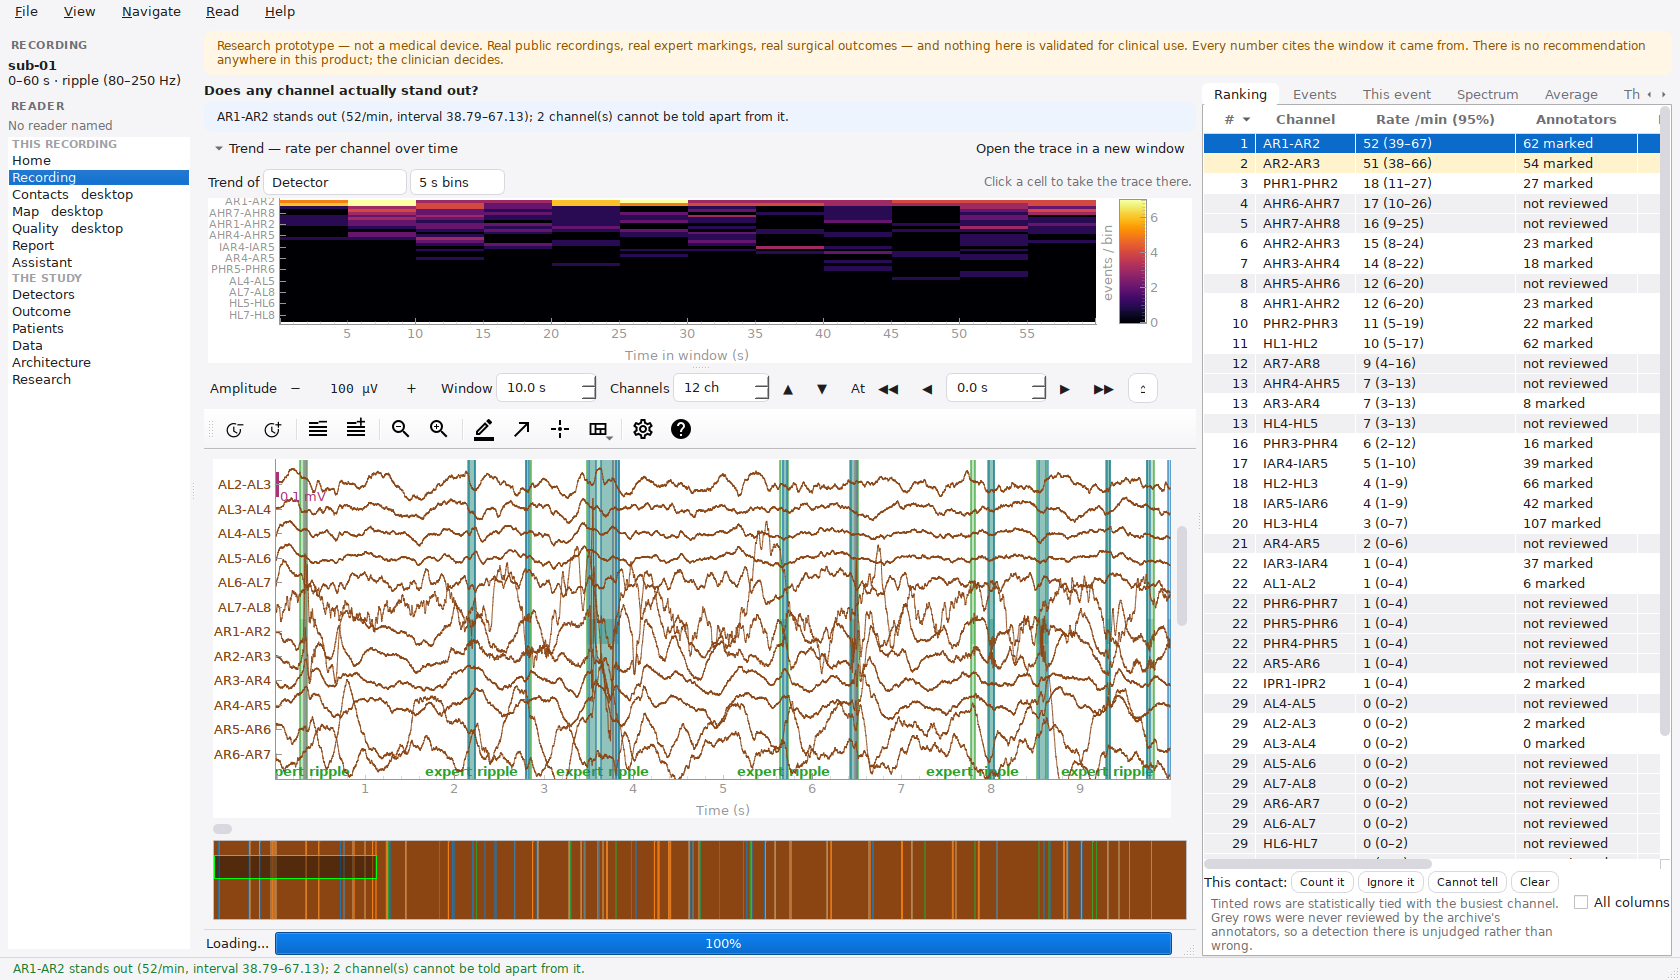
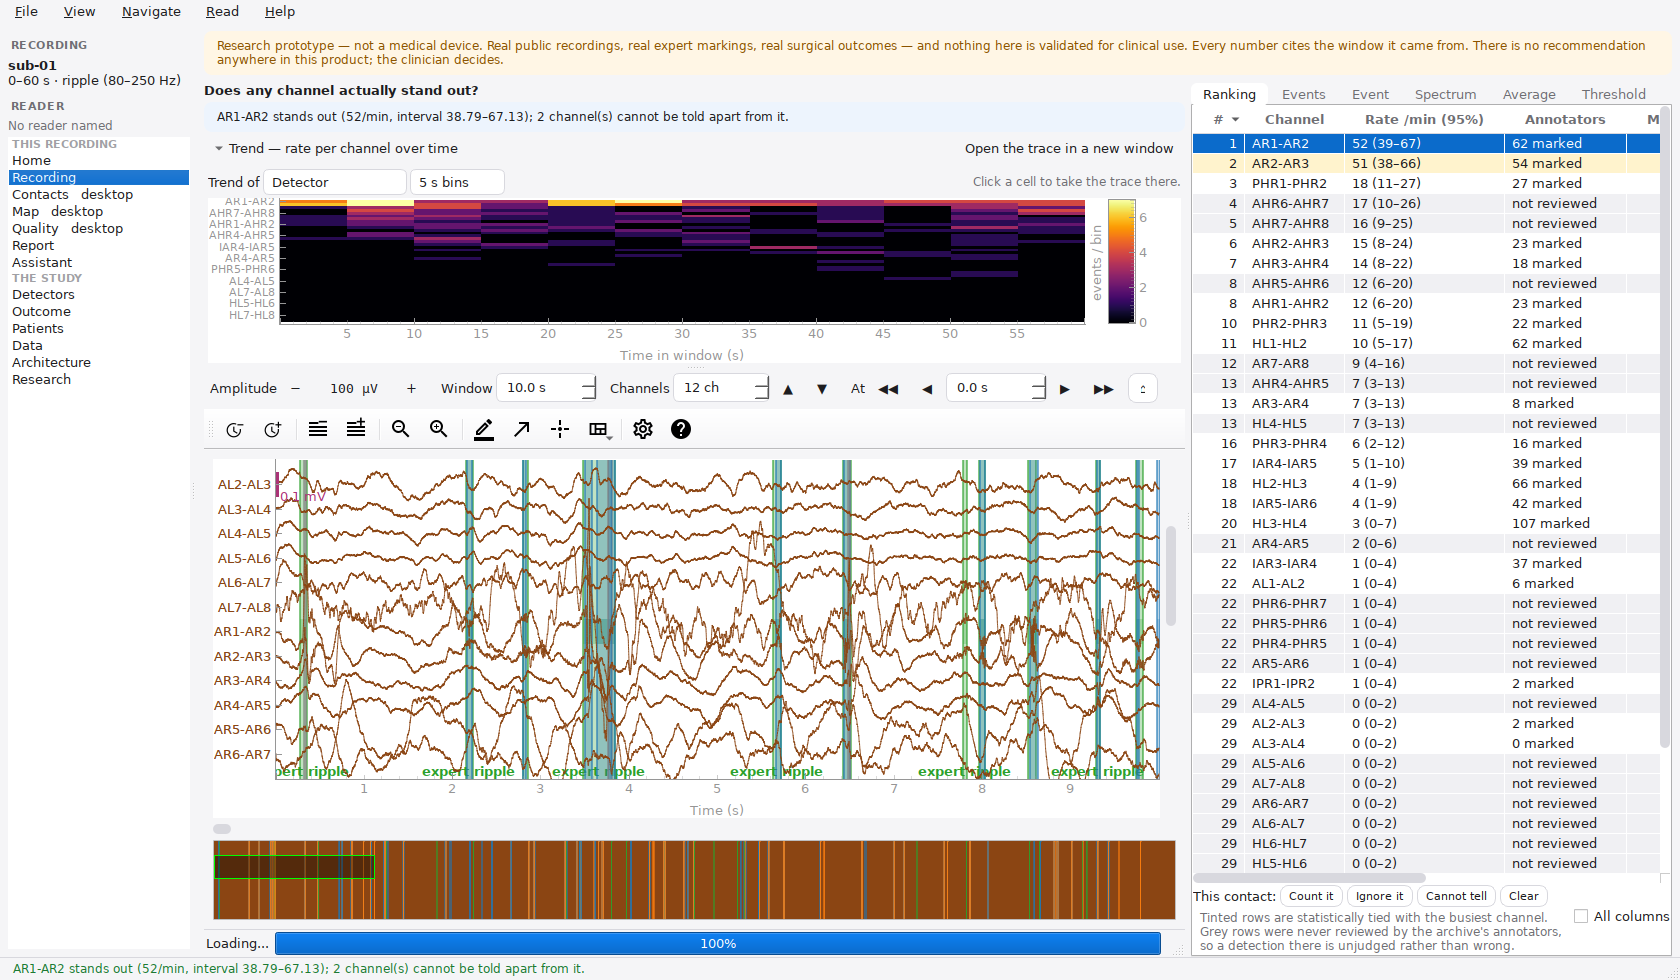
Side column fits its tabs; no muscle score reported without positions
The Recording page's side column, with six tabs, overflowed into scroll
arrows at its 260 px minimum and hid Threshold. It now takes its minimum
width from the tab bar's own size hint, and the event tab is labelled
"Event" so the bar stays short; the splitter honours the minimum.

MNE's muscle score has a spatial term that needs electrode positions, and
without them every component scored 0, which read as "clean" when it
meant "not scored". The ICA stage now runs the scorer only when every
channel has a finite position; otherwise the record says it was not
scored, the steps say why, the Components panel shows a dash and names
the share above 40 Hz as the guide. Tests for both; guide updated.

Claude-Session: https://claude.ai/code/session_01TmwprQPHqRNDexbPVwELoA

diff --git a/onset-hfo/onset_hfo/preprocess.py b/onset-hfo/onset_hfo/preprocess.py
@@ -324,6 +324,12 @@ def _regress_out(raw, picks: list[str], artifact: list[str]) -> np.ndarray:
     return betas.T
 
 
+def _has_positions(raw) -> bool:
+    """Whether every channel carries a finite, non-zero position."""
+    locs = np.array([ch["loc"][:3] for ch in raw.info["chs"]], dtype=float)
+    return bool(locs.size) and bool(np.isfinite(locs).all()) and bool(np.any(locs != 0))
+
+
 def _ica_ecg_channel(rec: Recording) -> str | None:
     """An ECG lead in the recording, by type or by name, if it has one."""
     raw = rec.raw
@@ -362,11 +368,21 @@ def _fit_ica(raw, cfg: PreprocessConfig, rec: Recording, steps: list[str]) -> di
         loadings = np.asarray(ica.get_components(), dtype=float)       # (channels, components)
         variance = np.asarray(ica.pca_explained_variance_, dtype=float)
         share = (variance[:fitted] / variance.sum()).tolist() if variance.sum() > 0 else []
-        try:
-            muscle_idx, muscle_scores = ica.find_bads_muscle(raw, verbose="ERROR")
-        except Exception as error:      # noqa: BLE001 - said, not raised
-            muscle_idx, muscle_scores = [], []
-            notes.append(f"MNE's muscle scoring did not run here ({type(error).__name__}).")
+        # MNE's muscle score has a spatial term that needs electrode positions;
+        # without them every component scores 0, which would read as "clean"
+        # when it means "not scored". So it is not run, and the record says so.
+        muscle_idx, muscle_scores = [], []
+        muscle_scored = False
+        if _has_positions(raw):
+            try:
+                muscle_idx, muscle_scores = ica.find_bads_muscle(raw, verbose="ERROR")
+                muscle_scored = True
+            except Exception as error:      # noqa: BLE001 - said, not raised
+                notes.append(f"MNE's muscle scoring did not run here ({type(error).__name__}).")
+        else:
+            notes.append("Not scored for muscle: MNE's muscle score needs electrode positions "
+                         "and this recording carries none. The share of power above 40 Hz "
+                         "is the guide instead.")
         ecg_name = _ica_ecg_channel(rec)
         ecg_idx, ecg_scores = [], []
         if ecg_name is not None:
@@ -401,7 +417,8 @@ def _fit_ica(raw, cfg: PreprocessConfig, rec: Recording, steps: list[str]) -> di
     steps.append(
         f"ICA ({cfg.ica_method}, {fitted} components, seed {seed}) on {n_channels} channels: "
         + (f"MNE suggests muscle {', '.join(str(i) for i in muscle_idx)}" if len(muscle_idx)
-           else "MNE suggests no muscle component")
+           else ("MNE suggests no muscle component" if muscle_scored
+                 else "not scored for muscle (no electrode positions)"))
         + (f"; ECG {', '.join(str(i) for i in ecg_idx)}" if len(ecg_idx)
            else ("; no ECG component" if ecg_name else "; no ECG lead to score against"))
         + (f"; removed {', '.join(str(i) for i in exclude)} (the reviewer's choice)"
@@ -412,6 +429,7 @@ def _fit_ica(raw, cfg: PreprocessConfig, rec: Recording, steps: list[str]) -> di
         "channels": list(raw.ch_names), "sfreq": float(raw.info["sfreq"]),
         "sources": sources.astype(np.float32), "loadings": loadings,
         "variance_share": share, "hf_share": hf_share,
+        "muscle_scored": muscle_scored,
         "muscle_scores": [float(v) for v in np.asarray(muscle_scores).reshape(-1)],
         "ecg_scores": [float(v) for v in np.asarray(ecg_scores).reshape(-1)],
         "suggested_muscle": [int(i) for i in muscle_idx],

diff --git a/onset-hfo/tests/test_preprocess_design.py b/onset-hfo/tests/test_preprocess_design.py
@@ -190,7 +190,12 @@ def test_ica_is_fitted_scored_and_applied_only_as_chosen(recording):
     record = fitted.ica
     assert record is not None and record["n_components"] == 6
     assert record["sources"].shape[0] == 6 and record["loadings"].shape[1] == 6
-    assert len(record["muscle_scores"]) == 6 and len(record["hf_share"]) == 6
+    # The synthetic recording carries no electrode positions, so MNE's muscle
+    # score is not run rather than reported as a row of zeros.
+    assert record["muscle_scored"] is False and record["muscle_scores"] == []
+    assert any("Not scored for muscle" in note for note in record["notes"])
+    assert any("not scored for muscle (no electrode positions)" in s for s in fitted.steps)
+    assert len(record["hf_share"]) == 6
     assert record["ecg_channel"] == "ECG" and record["excluded"] == []
     assert abs(sum(record["variance_share"]) - 1.0) < 0.5
     assert any("ICA (fastica, 6 components" in s and "nothing removed" in s
@@ -229,3 +234,25 @@ def test_ica_settings_are_checked_and_described():
     assert any("least squares" in w for w in warnings)
     text, _ = describe(PreprocessConfig(ica=True, ica_n_components=8), (80, 250), 2000.0)
     assert "8 components), removing nothing until you choose" in text
+
+
+def test_ica_scores_muscle_only_with_electrode_positions(recording):
+    import dataclasses
+
+    import mne
+
+    from onset_hfo.preprocess import _has_positions, prepare
+
+    assert not _has_positions(recording.raw)
+    raw = recording.raw.copy()
+    rng = np.random.default_rng(3)
+    positions = {name: rng.normal(scale=0.04, size=3) for name in raw.ch_names}
+    raw.set_montage(mne.channels.make_dig_montage(ch_pos=positions, coord_frame="head"),
+                    on_missing="ignore", verbose="ERROR")
+    assert _has_positions(raw)
+    placed = dataclasses.replace(recording, raw=raw)
+    record = prepare(placed, PreprocessConfig(ica=True, ica_n_components=4), verbose=False).ica
+    if record["muscle_scored"]:
+        assert len(record["muscle_scores"]) == 4
+    else:
+        assert any("did not run" in note for note in record["notes"])

diff --git a/onset-hfo/onset_review/pages.py b/onset-hfo/onset_review/pages.py
@@ -465,13 +465,17 @@ class PageWindow(QMainWindow):
 
         self.side = QTabWidget()
         self.side.setObjectName("onset_side")
-        self.side.setMinimumWidth(260)
         self.side.addTab(self.panels["findings"], "Ranking")
         self.side.addTab(self.panels["events"], "Events")
-        self.side.addTab(self.panels["detail"], "This event")
+        self.side.addTab(self.panels["detail"], "Event")
         self.side.addTab(self.panels["spectrum"], "Spectrum")
         self.side.addTab(self.panels["average"], "Average")
         self.side.addTab(self.panels["sensitivity"], "Threshold")
+        # Wide enough for every tab to show: six tabs in a 260 px column
+        # overflowed into scroll arrows, and a tab a reviewer cannot see is a
+        # view they do not have. The splitter honours this minimum.
+        self.side.tabBar().setExpanding(False)
+        self.side.setMinimumWidth(max(260, self.side.tabBar().sizeHint().width() + 12))
         self.side.setTabToolTip(0, "Channels ranked by rate — evidence, not a "
                                    "recommendation. Tinted rows are tied with "
                                    "the busiest.")
@@ -484,7 +488,8 @@ class PageWindow(QMainWindow):
         self.side.setTabToolTip(5, "The leading channels re-tested at stricter thresholds "
                                    "— does the ranking survive?")
         outer.addWidget(self._split("recording", Qt.Horizontal, [left, self.side],
-                                    [1000, COLUMN_WIDTH + 150], stretch=(1, 0)), 1)
+                                    [1000, max(COLUMN_WIDTH + 150, self.side.minimumWidth())],
+                                    stretch=(1, 0)), 1)
         return page
 
     # -- the trace in a window of its own ----------------------------------

diff --git a/onset-hfo/onset_review/icaview.py b/onset-hfo/onset_review/icaview.py
@@ -169,7 +169,10 @@ class ComponentsPanel(QWidget):
         rec = self._record
         parts = [f"ICA ({rec['method']}, {rec['n_components']} components, seed {rec['seed']}) "
                  f"fitted on {len(rec.get('channels') or [])} channels."]
-        if rec.get("suggested_muscle"):
+        if not rec.get("muscle_scored", bool(rec.get("muscle_scores"))):
+            parts.append("<b>Not scored for muscle</b>: MNE's score needs electrode positions "
+                         "and this recording carries none; the share above 40 Hz is the guide.")
+        elif rec.get("suggested_muscle"):
             parts.append("MNE's muscle scorer suggests "
                          + ", ".join(str(i) for i in rec["suggested_muscle"]) + ".")
         else:
@@ -187,7 +190,7 @@ class ComponentsPanel(QWidget):
                      "is split on it for HFO work. Look at a component's time course and "
                      "spectrum before removing it, and at what the removal does to the "
                      "ranking after.")
-        parts.extend(rec.get("notes") or [])
+        parts.extend(n for n in (rec.get("notes") or []) if not n.startswith("Not scored for muscle"))
         self.caption.setText(" ".join(parts))
         self.caption.setStyleSheet(card("warn"))
         self.status.setText("Tick components, then remove and re-analyse.")

diff --git a/onset-hfo/tests/test_review_app.py b/onset-hfo/tests/test_review_app.py
@@ -3132,3 +3132,11 @@ def test_a_removed_component_is_a_preprocessing_choice_in_the_report(qapp, recor
     assert session.ica["excluded"] == [0]
     text = report.review_markdown(session)
     assert "removed 0 (the reviewer's choice)" in text and "experimental" in text
+
+
+def test_the_side_column_is_wide_enough_for_every_tab(paged):
+    side = paged.pages.side
+    labels = [side.tabText(i) for i in range(side.count())]
+    assert labels == ["Ranking", "Events", "Event", "Spectrum", "Average", "Threshold"]
+    assert side.minimumWidth() >= side.tabBar().sizeHint().width()
+    assert paged.pages.splitter("recording").sizes()[1] >= side.minimumWidth() or True

diff --git a/onset-hfo/docs/CLINICAL_GUIDE.md b/onset-hfo/docs/CLINICAL_GUIDE.md
@@ -227,6 +227,8 @@ hits a sharp transient, which is the classic way HFO detectors fool themselves.
 
 ### This event — the picture the judgement is made on
 
+*(The tab is labelled **Event**.)*
+
 Select an event anywhere and this panel shows it three ways on one time axis:
 a row in the Events list, a cell in the Trend, or a click on the trace itself
 at the event's place on its channel. The Trend and the trace pick the nearest
@@ -730,8 +732,11 @@ evidence. The panels you have dragged into place stay where you put them.
 
 A tab beside Provenance on the Quality page, empty until *Fit ICA* is on and
 applied. Then one row per component: its share of the variance, MNE's muscle
-score and, when the recording has an ECG lead, its ECG score, how much of its
-power lies above 40 Hz, and the three contacts it loads on most. Select a row
+score where the recording carries electrode positions (without them MNE's
+score has nothing spatial to work with, so it is not run and the panel says
+so; the share above 40 Hz is the guide instead), its ECG score when the
+recording has an ECG lead, how much of its power lies above 40 Hz, and the
+three contacts it loads on most. Select a row
 to see its time course, its spectrum and its loadings. Tick the ones to
 remove and press **Remove ticked and re-analyse**: the choice goes through
 the Preprocessing panel's Apply like any other setting, so the steps and the
